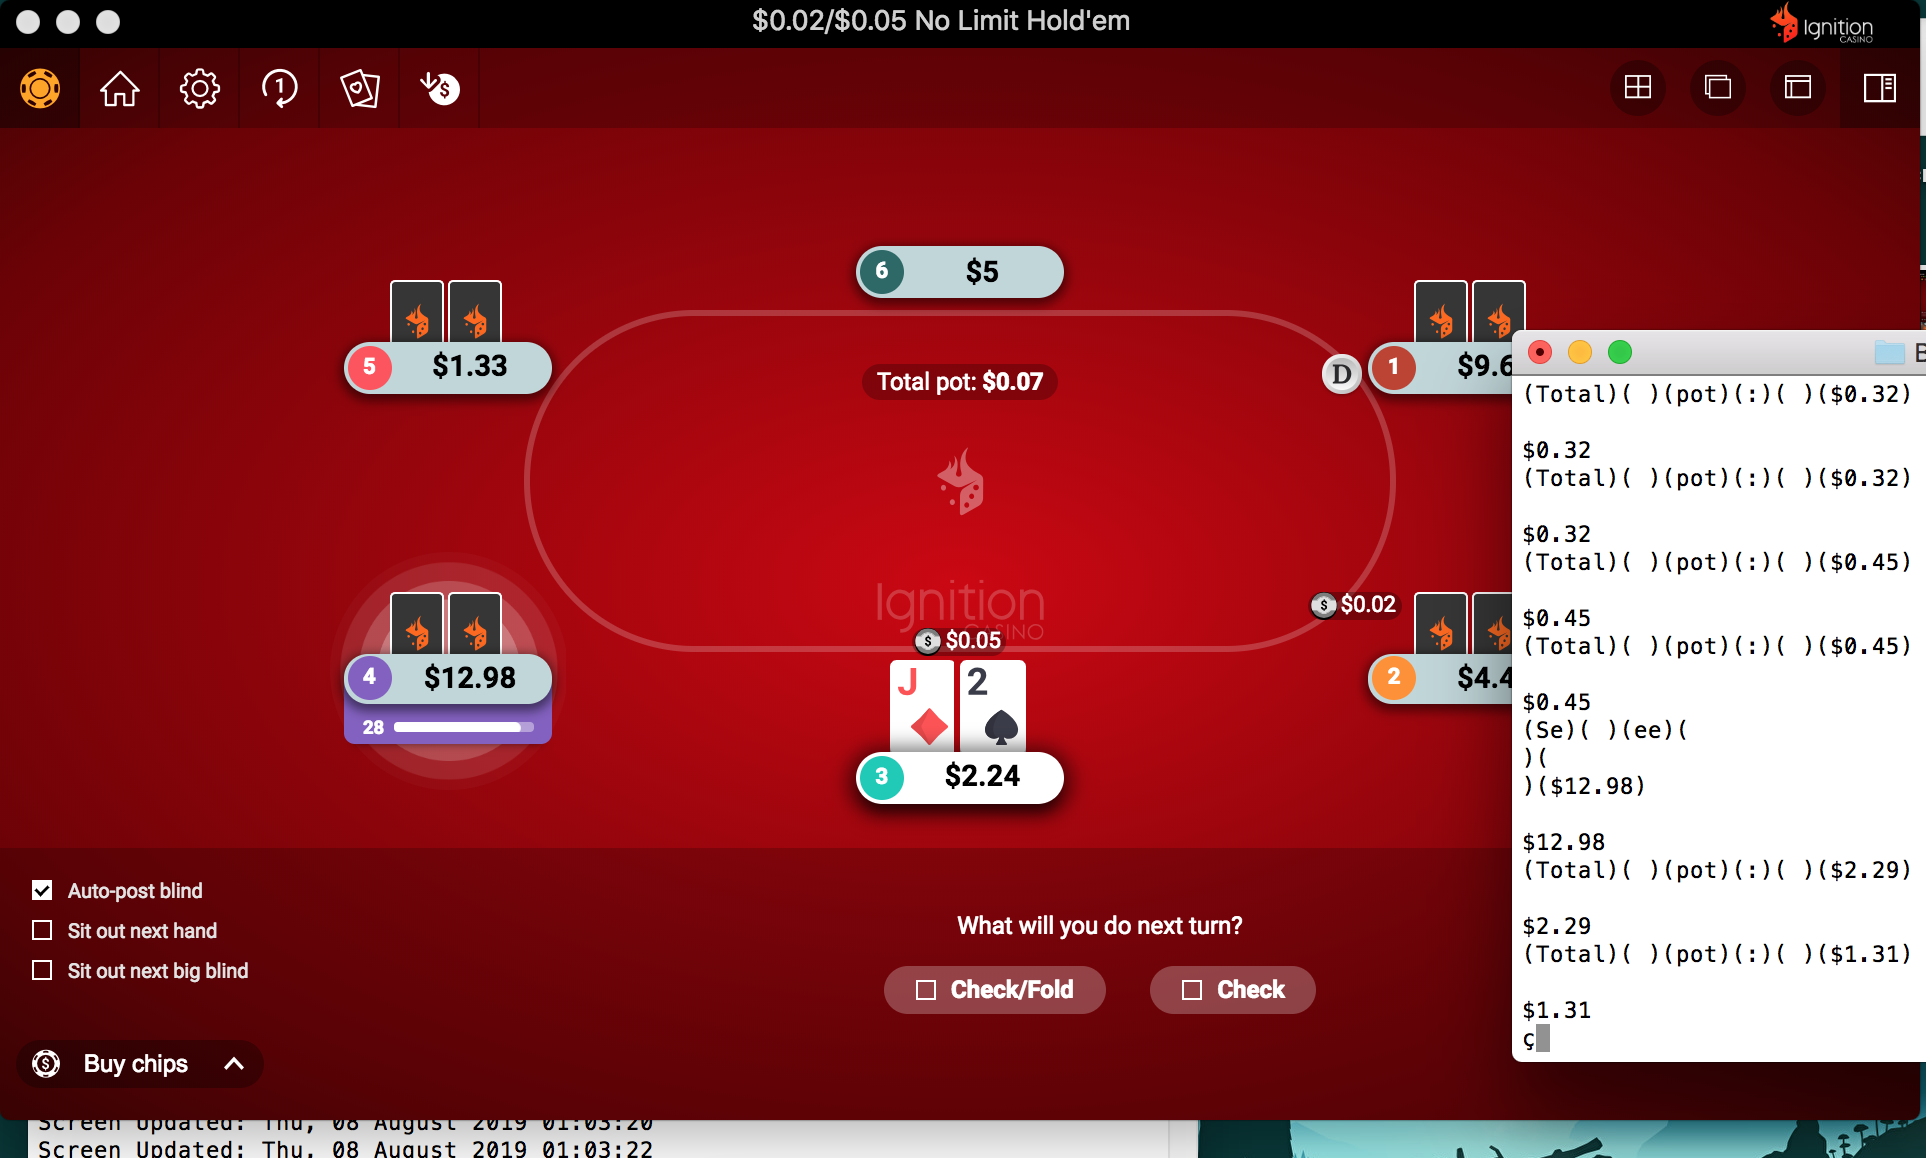
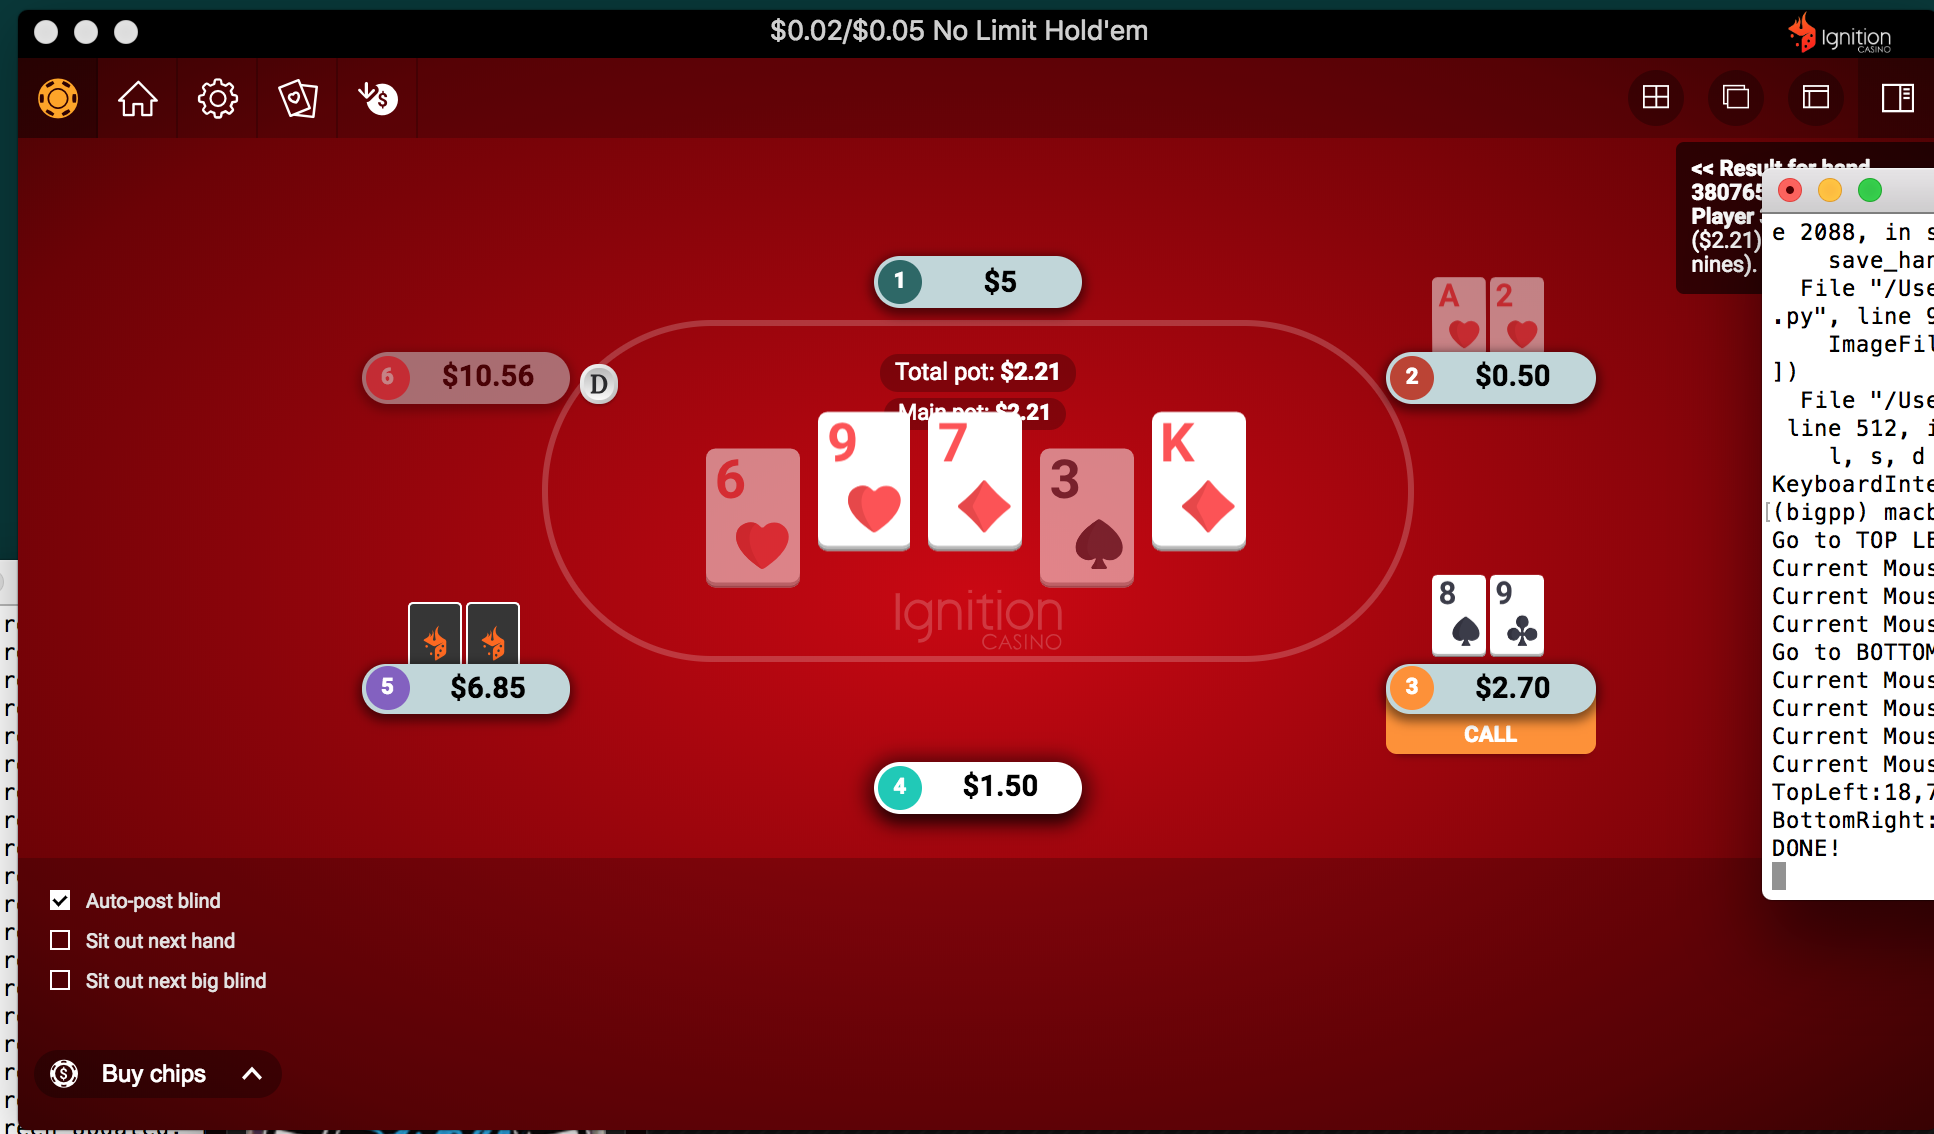
Deciding

diff --git a/eyes.py b/eyes.py
@@ -8,7 +8,7 @@ import time
 import re
 
 foundCards=[[False for i in range(13)] for j in range(4)] #THIS IS CORRECT!!
-
+txt=""
 debounce=False
 
 allCards=[[
@@ -206,33 +206,63 @@ def findWindowEdge():
     cropped_img.save("cropped.png")
     #cropped_img.show()
 
-def checkPotSize():
+def checkTotalPotSize():
+    global debounce
+    global txt
+    if(not debounce):
+        debounce=True
+        findWindowEdge()
+        txt=readNumbers("/users/ryan/desktop/BigPP/cropped.png")
+        print(txt)
+        re1='(Total)'	# Word 1
+        re2='(\\s+)'	# White Space 1
+        re3='(pot)'	# Word 2
+        re4='(.)'	# Any Single Character 1
+        re5='(\\s+)'	# White Space 2
+        re6='(\\$[0-9]+(?:\\.[0-9][0-9])?)(?![\\d])'	# Dollar Amount 1
+        rg = re.compile(re1+re2+re3+re4+re5+re6,re.IGNORECASE|re.DOTALL)
+        m = rg.search(txt)
+        if m:
+            word1=m.group(1)
+            ws1=m.group(2)
+            word2=m.group(3)
+            c1=m.group(4)
+            ws2=m.group(5)
+            dollars1=m.group(6)
+            #print ("("+word1+")"+"("+ws1+")"+"("+word2+")"+"("+c1+")"+"("+ws2+")"+"("+dollars1+")"+"\n")
+            print(dollars1)
+            debounce=False
+            return dollars1
+        
+        else:
+            print("INBETEEN ROUNDS")
+            debounce=False
+            return "INBETWEEN ROUNDS"
 
-    if(debounce):
-        return
-    if(done=)
-    done=False
-    findWindowEdge()
-    txt=readNumbers("/users/ryan/desktop/BigPP/cropped.png")
-re1='(Total)'	# Word 1
-re2='(\\s+)'	# White Space 1
-re3='(Pot)'	# Word 2
-re4='(.)'	# Any Single Character 1
-re5='(\\s+)'	# White Space 2
-re6='(\\$[0-9]+(?:\\.[0-9][0-9])?)(?![\\d])'	# Dollar Amount 1
-
-rg = re.compile(re1+re2+re3+re4+re5+re6,re.IGNORECASE|re.DOTALL)
-m = rg.search(txt)
-if m:
-    word1=m.group(1)
-    ws1=m.group(2)
-    word2=m.group(3)
-    c1=m.group(4)
-    ws2=m.group(5)
-    dollars1=m.group(6)
-    print "("+word1+")"+"("+ws1+")"+"("+word2+")"+"("+c1+")"+"("+ws2+")"+"("+dollars1+")"+"\n"
-
-
+def checkMainPotSize():
+    re1='(Main)'	# Word 1
+    re2='(\\s+)'	# White Space 1
+    re3='(pot)'	# Word 2
+    re4='(.)'	# Any Single Character 1
+    re5='(\\s+)'	# White Space 2
+    re6='(\\$[0-9]+(?:\\.[0-9][0-9])?)(?![\\d])'	# Dollar Amount 1
+    rg = re.compile(re1+re2+re3+re4+re5+re6,re.IGNORECASE|re.DOTALL)
+    m = rg.search(txt)
+    if m:
+        word1=m.group(1)
+        ws1=m.group(2)
+        word2=m.group(3)
+        c1=m.group(4)
+        ws2=m.group(5)
+        dollars1=m.group(6)
+        #print ("("+word1+")"+"("+ws1+")"+"("+word2+")"+"("+c1+")"+"("+ws2+")"+"("+dollars1+")"+"\n")
+        print(dollars1)
+        debounce=False
+        return dollars1
+    else:
+        print("INBETEEN ROUNDS")
+        debounce=False
+        return "INBETWEEN ROUNDS"
 
 def checkStackSize():
     result=readNumbers('/users/ryan/desktop/a.png')

diff --git a/run.py b/run.py
@@ -8,9 +8,10 @@ from brain import makeDecision
 
 initialize()
 while True:
-    checkPotSize()
+    checkTotalPotSize()
+    checkMainPotSize()
 #     #checkPotSize()
 #      if(isOurAction()):
 #          print("Making Decision")
 #          makeDecision()
-    time.sleep(1)
+    #time.sleep(1)
